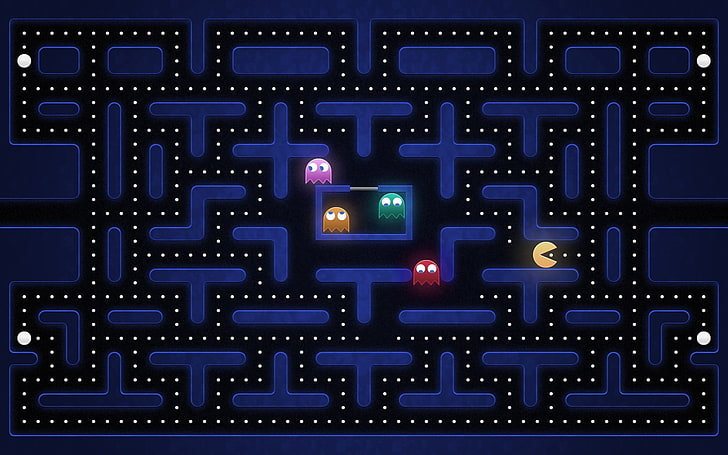
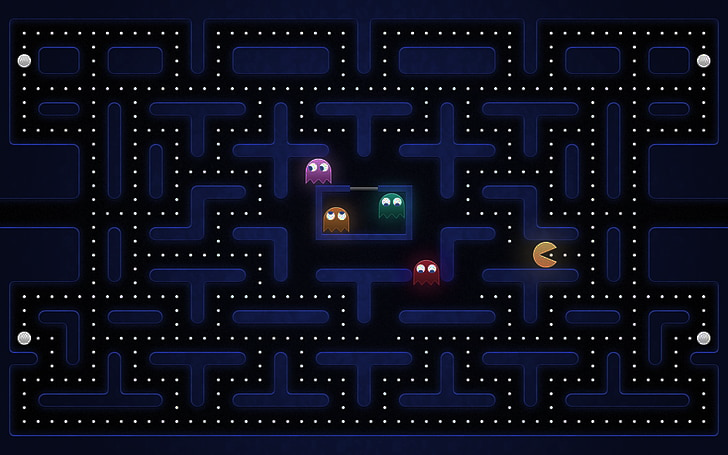
empiezo quien soy

diff --git a/src/app/components/quien-soy/quien-soy.component.html b/src/app/components/quien-soy/quien-soy.component.html
@@ -1,1 +1,16 @@
-<p>quien-soy works!</p>
+<div id="quien" class="container mt-5">
+    <div class="row justify-content-center text-center">
+        <div class="col-12 col-md-8 col-lg-6 bg-dark rounded-3">
+            <div class="row justify-content-center">
+                <h2>Quien soy?</h2>
+                <h5>Mazzuccheli Puente Juan Ignacio</h5>
+                <div class="col-8 col-md-6 col-lg-6">
+                    <div class="foto-cont bg-warning">
+                        <img src="./../../../assets/favicon.png" alt="">
+                    </div>
+                </div>
+            </div>
+            <div>Lorem ipsum dolor sit amet consectetur adipisicing elit. Cumque sapiente doloremque, modi culpa enim dolor, labore corporis asperiores eaque saepe quis minima! Quibusdam, fugiat? Atque perferendis aut totam earum similique.</div>
+        </div>
+    </div>
+</div>

diff --git a/src/app/components/nav/nav.component.html b/src/app/components/nav/nav.component.html
@@ -2,7 +2,7 @@
   <div class="container">
     <div class="row m-0 w-100 h-100 align-items-center ">
       <div class="col-12 d-flex justify-content-between">
-        <button class="btn btn-warning btn-pac" >Quien Soy</button>
+        <button class="btn btn-warning btn-pac" [routerLink]="['/quien-soy']" >Quien Soy</button>
         <div *ngIf="this.loggedIn" class="dropdown">
           <div class="profile-circle dropdown-toggle" id="dropdownMenuButton1" data-bs-toggle="dropdown" aria-expanded="false">
             <img src="./../../../assets/images/red-ghost.png" alt="">

diff --git a/src/styles.css b/src/styles.css
@@ -7,7 +7,6 @@
 
 body{
     background-image: url('./assets/images/fondo_pacman.jpg');
-    backdrop-filter: brightness(60%);
 }
 
 .btn-pac-outline{
@@ -25,6 +24,12 @@ body{
 .btn-pac:hover{
     background-color: yellow;
     transform: scale(1.05);
+}
+
+.btn-pac:focus,
+.btn-pac:active{
+    background-color: yellow;
+    box-shadow: none;
 }
 
 .link-pac{

diff --git a/src/app/components/quien-soy/quien-soy.component.css b/src/app/components/quien-soy/quien-soy.component.css
@@ -1,0 +1,20 @@
+#quien{
+    color: yellow;
+}
+
+.foto-cont{
+    position: relative;
+    width: 100%;
+    border-radius: 100%;
+    overflow: hidden;
+}
+
+.foto-cont:after{
+    content: "";
+    display: block;
+}
+
+.foto-cont img{
+    width: 100%;
+    height: 100%;
+}

diff --git a/src/app/components/nav/nav.component.css b/src/app/components/nav/nav.component.css
@@ -1,5 +1,6 @@
 .nav {
-  position: fixed;
+  position: sticky;
+  top: 0;
   z-index: 100;
   height: 70px;
 }

diff --git a/src/app/app.component.html b/src/app/app.component.html
@@ -1,3 +1,2 @@
-
 <app-nav></app-nav>
 <router-outlet></router-outlet>

diff --git a/src/app/app.component.css b/src/app/app.component.css
@@ -1,0 +1,3 @@
+div{
+    height: 100vh;
+}
